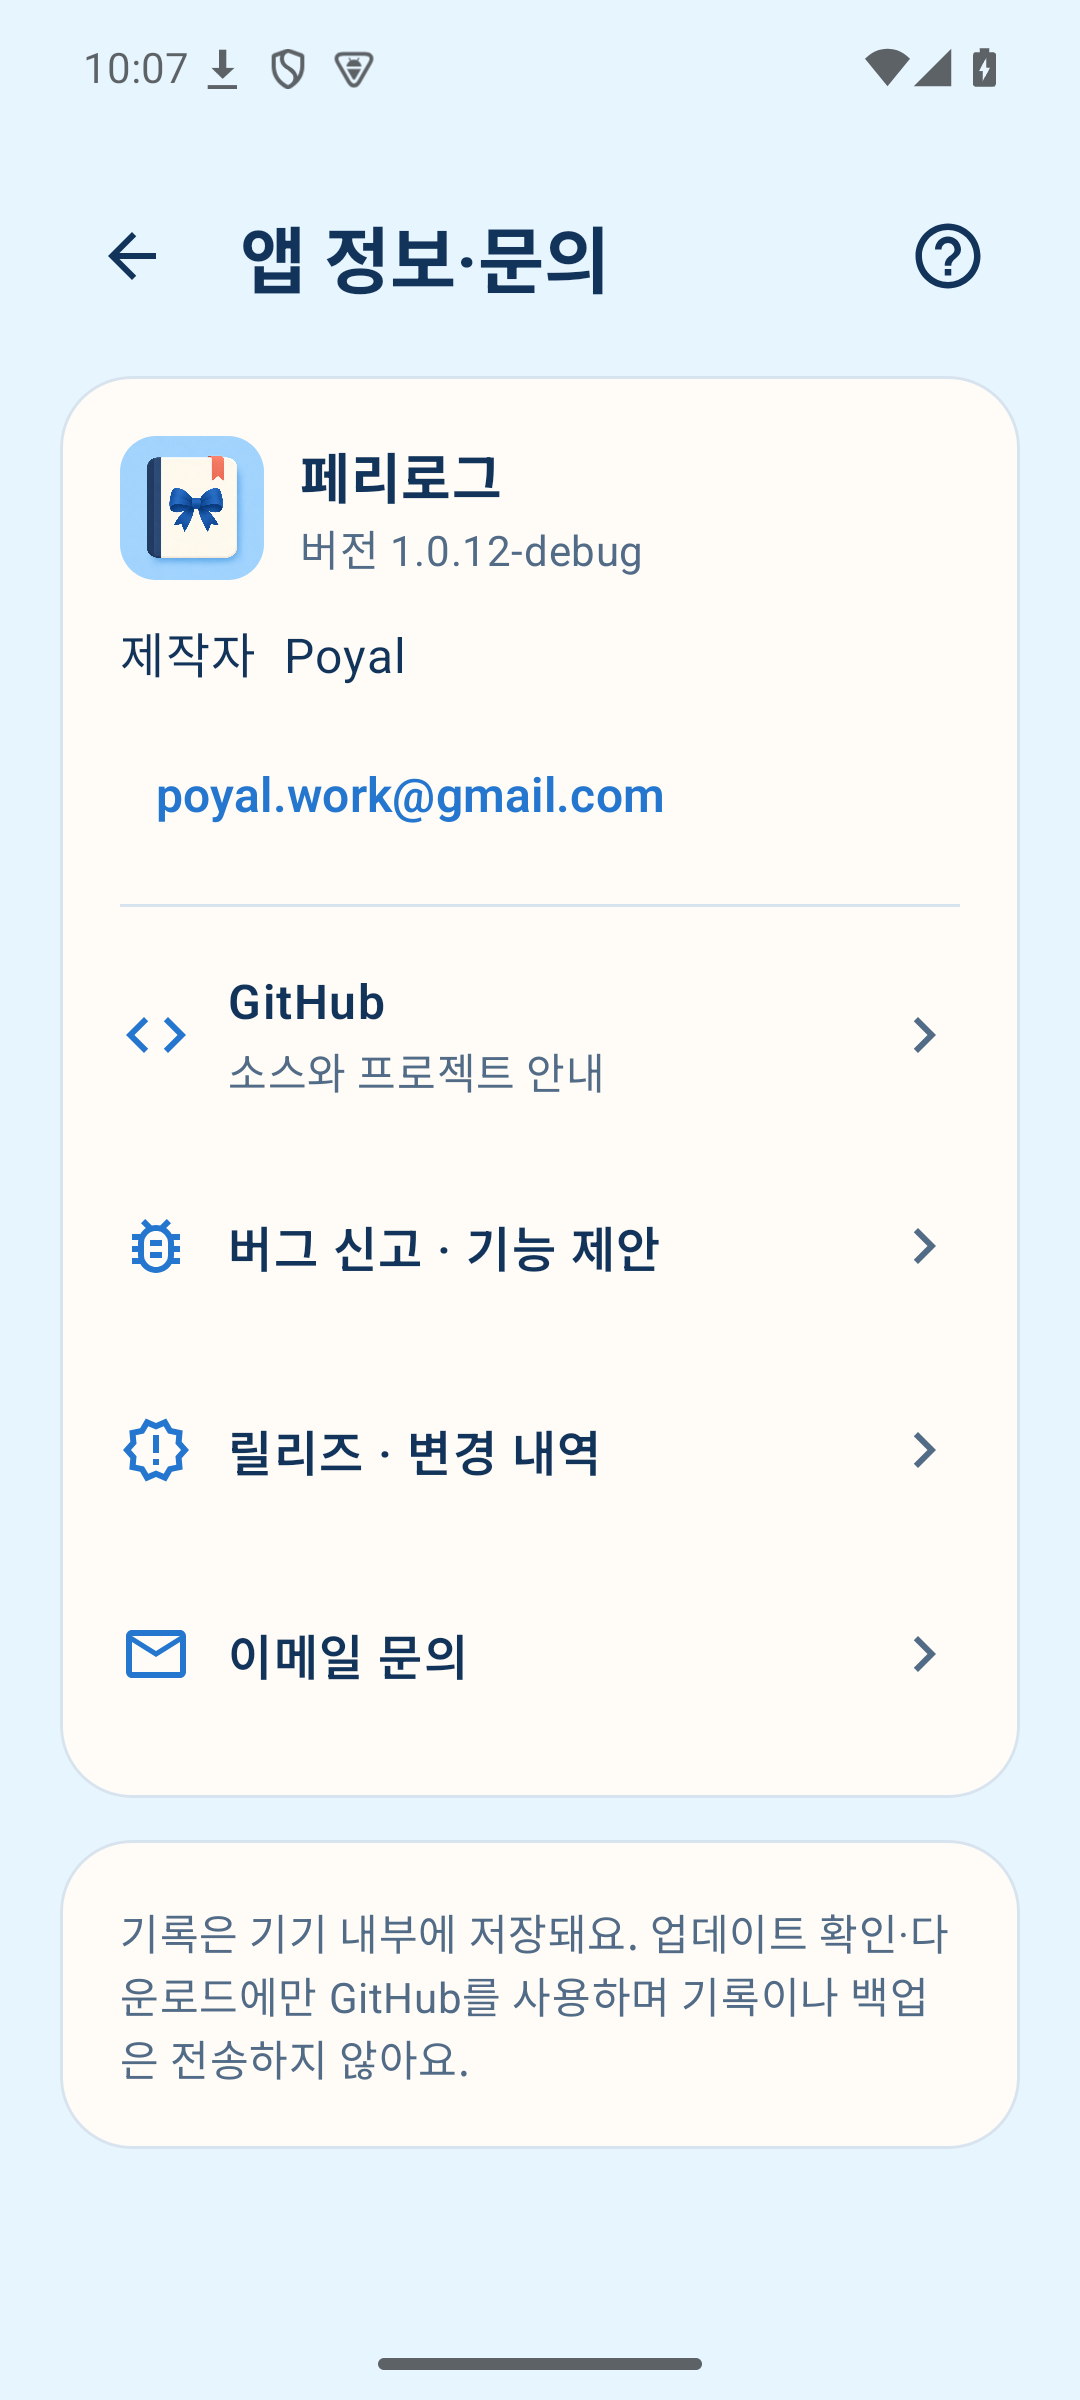
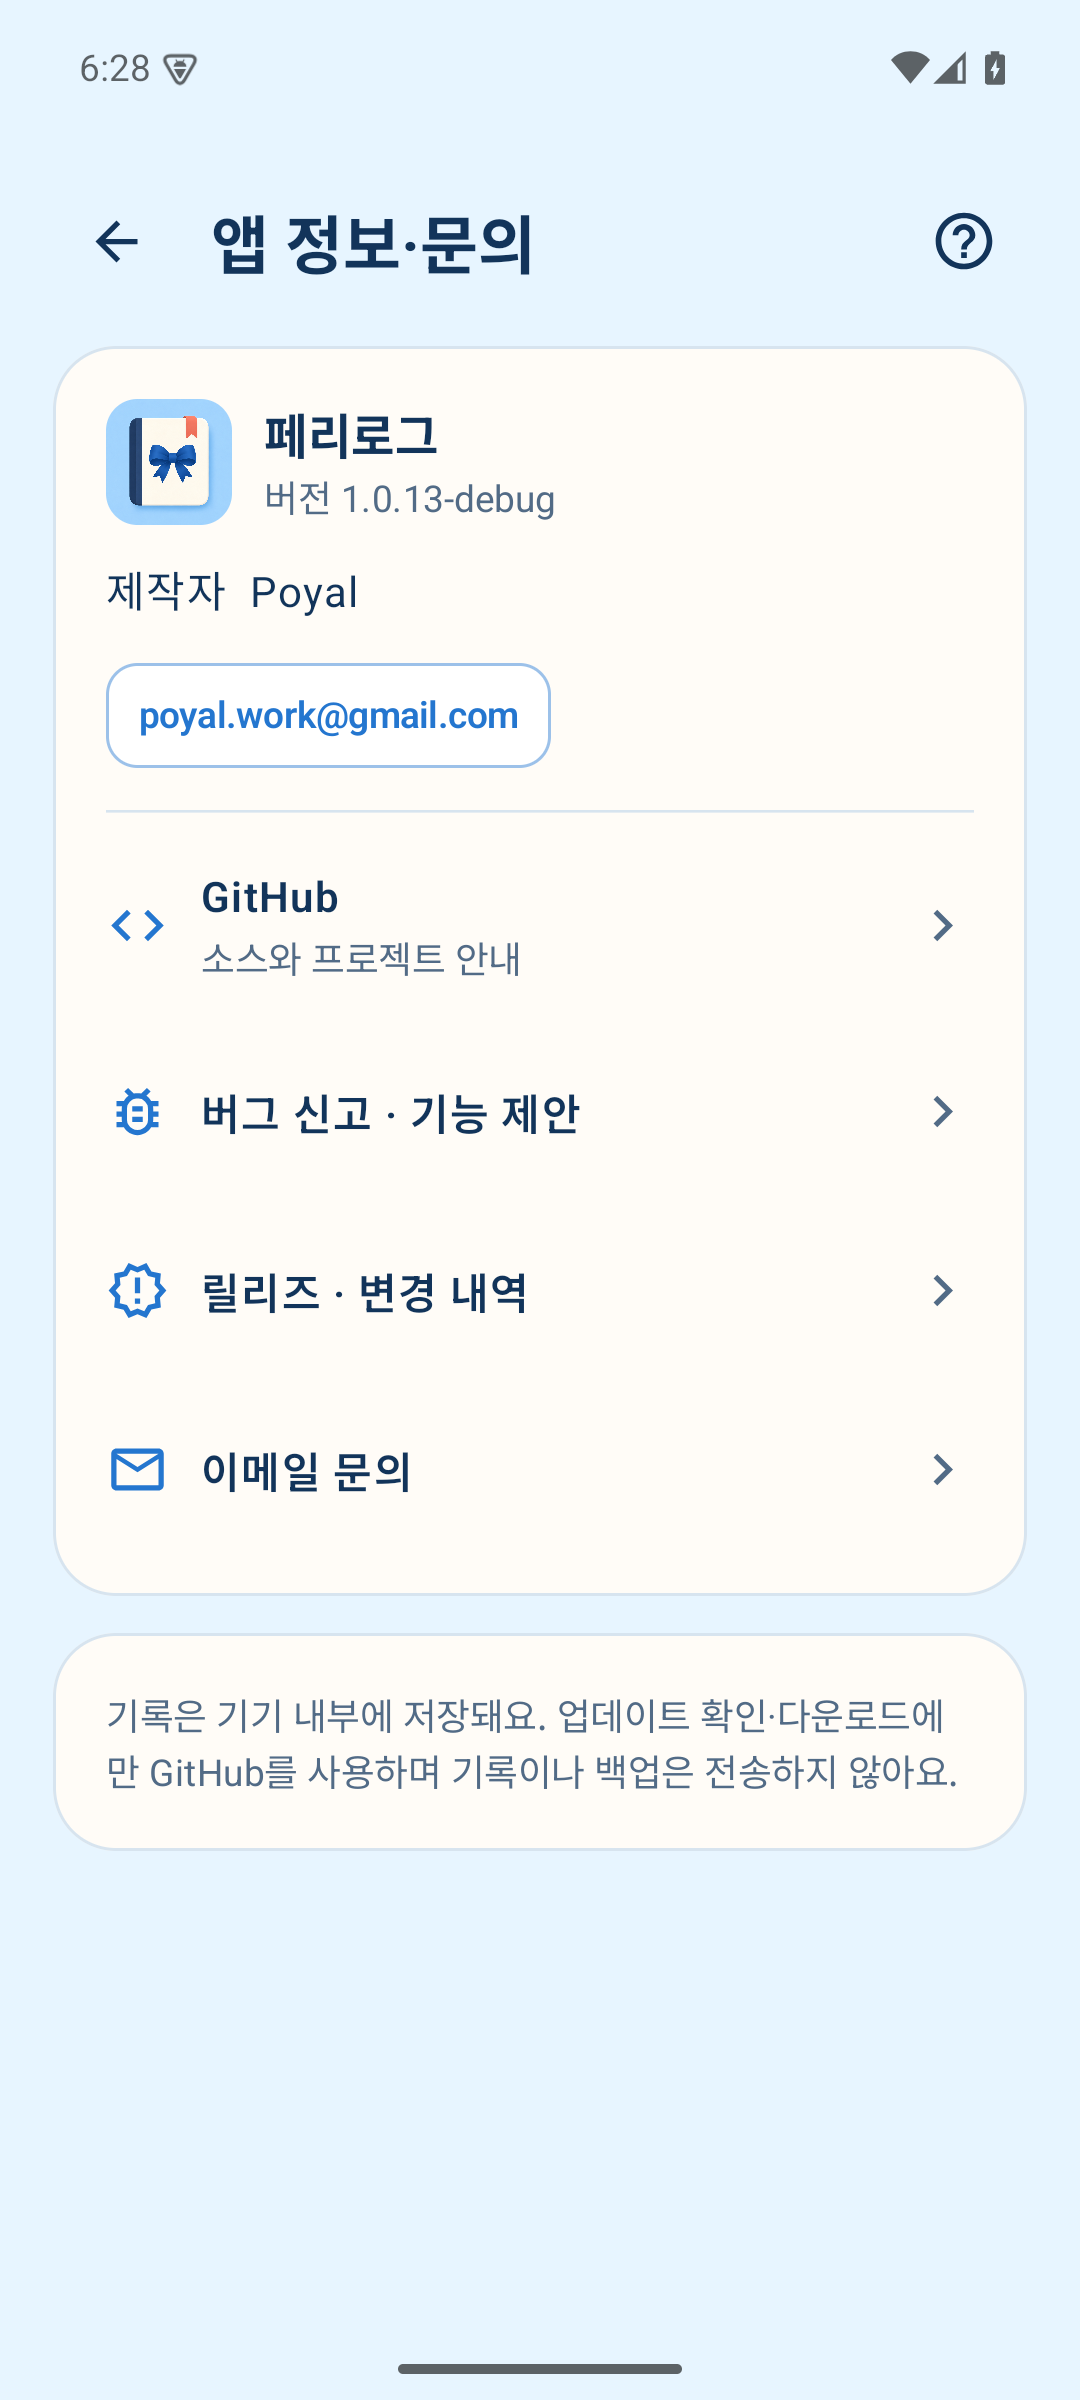
chore: prepare v1.0.13 release candidate

diff --git a/docs/capture/UpdateCapture.kt b/docs/capture/UpdateCapture.kt
@@ -29,7 +29,7 @@ import java.io.File
 class UpdateCapture {
     @get:Rule val ui = createAndroidComposeRule<ComponentActivity>()
     @Test fun availableVersionIgnoresPreviousDownload() {
-        val latest = ReleaseInfo("1.0.13", "fixture", "perilog-1.0.13.apk", 100, "a".repeat(64), "fixture")
+        val latest = ReleaseInfo("1.0.14", "fixture", "perilog-1.0.14.apk", 100, "a".repeat(64), "fixture")
         val previous = DownloadRecord(42, latest.copy(version = "1.0.10"), "perilog-1.0.10-old.apk")
         val persistence = object: UpdatePersistence {
             override suspend fun read() = UpdateRecord(latest, System.currentTimeMillis(), System.currentTimeMillis(), previous)
@@ -59,7 +59,7 @@ class UpdateCapture {
                     }
                 }
             } }
-            ui.onNodeWithText("1.0.13 APK 다운로드").assertIsDisplayed()
+            ui.onNodeWithText("1.0.14 APK 다운로드").assertIsDisplayed()
             ui.onNodeWithText("perilog-1.0.10-old.apk", substring = true).assertDoesNotExist()
             ui.waitForIdle(); SystemClock.sleep(650)
             val app = ApplicationProvider.getApplicationContext<PerilogApplication>()

diff --git a/docs/releases/v1.0.13.md b/docs/releases/v1.0.13.md
@@ -1,0 +1,25 @@
+# v1.0.13 변경 내용
+
+## 병원 일정 캘린더 연동
+
+**설정 → 캘린더 연동 → 휴대폰 캘린더 연결**에서 일정을 보낼 캘린더를 선택할 수 있습니다. 페리로그에서 병원 예약을 등록·수정·삭제하면 연결된 캘린더에도 반영합니다. 첫 연결은 오늘 이후 예약을 보내며, 다른 앱에서 만든 일정은 변경하지 않습니다.
+
+예약 메모는 기본으로 제외합니다. 복원한 예약은 기존 캘린더 일정을 확인한 후 다시 연결해 중복 전송을 방지해 주세요. 제목은 **병원 방문 · 신장내과 외 1개**처럼 짧게 표시하며 전체 진료·검사·치료 항목은 일정 설명에서 확인합니다.
+
+현재는 **페리로그 → 캘린더 단방향 반영**입니다. 캘린더에서 수정·삭제한 내용을 페리로그로 가져오지 않습니다. 구글 직접 연결은 배포 서명에 맞는 OAuth 설정과 실제 계정 인증 확인이 남아 있으므로, 이번 버전에서는 휴대폰 캘린더 연결을 이용해 주세요.
+
+## 버튼과 일정 화면 정리
+
+텍스트만 표시하던 동작을 배경·테두리가 있는 작은 버튼으로 바꾸고 크기·여백·간격을 통일했습니다. 공간이 부족하면 버튼이 다음 줄로 배치됩니다.
+
+홈에서 여는 일정 상세와 **설정 → 병원 일정**이 같은 예약 카드를 사용합니다. 카드 오른쪽 위 **⋮ 더보기**에서 수정·같은 구성으로 다음 예약·삭제를 선택합니다. 활력 상태는 **수정 아이콘**으로 입력을 펼치고 **저장 아이콘**으로 요약을 표시합니다. 입력값은 초안으로 보관되며 전체 기록은 화면 아래 **기록 저장**으로 저장합니다.
+
+캘린더 선택의 가운데 정렬과 연결 확인창의 구역·간격도 정리했습니다.
+
+## 업데이트 방법
+
+기존 앱을 삭제하지 않고 APK를 덮어 설치해 주세요. 업데이트 전에 **설정 → 데이터 내보내기·가져오기**에서 전체 데이터를 보관할 수 있습니다. DB 스키마는 8에서 9로 올라갑니다.
+
+## 검증
+
+이번 릴리즈 후보의 로컬 검증을 진행 중입니다. 실제 검사 결과와 공개 파일 확인은 [검증 기록](https://github.com/poyal/perilog/blob/main/docs/검증-기록.md)에 남깁니다.

diff --git a/docs/화면-안내.md b/docs/화면-안내.md
@@ -9,7 +9,7 @@
 
 2026-10-07 버튼 UI 통일 개발 빌드/API 35의 1080×2400px·420dpi·기본 글씨에서 병원 일정(39·71·75), 예상 재고(72·73), 입고 요청(48·49·50·74), 기록 표(23·44)를 갱신했습니다. 홈 상세와 일정 관리의 동일한 더보기 메뉴(88·89), 캘린더 선택·연동 확인(90·91)을 추가하고 연결 화면(76·77)을 갱신했습니다. 가상 자료만 사용했으며, 밝은 테마 촬영본을 아래에 싣습니다. 어두운 테마도 별도로 확인했습니다.
 
-2026-10-07 v1.0.12 준비 빌드/API 35의 360×800dp·기본 글씨에서 버전 표시(25·26·29)를 갱신했습니다. 29번은 실제 업데이트 UI에 다음 버전 1.0.13과 이전 APK 기록을 넣은 검사 응답 예시이며, 실제 공개 버전이나 다운로드 완료를 뜻하지 않습니다. 일반 설정(18), 앱 잠금·화면 보호(81), 상단 저장 안내(87)는 같은 날 잠금·보호 분리 개발 빌드에서 촬영했으며 릴리즈 후보와 화면이 같습니다. 모든 화면은 가상 자료로 촬영했습니다.
+2026-10-07 v1.0.13 준비 빌드/API 35의 1080×2400px·420dpi·기본 글씨에서 버전 표시(25·26·29)를 갱신했습니다. 29번은 실제 업데이트 UI에 다음 버전 1.0.14와 이전 APK 기록을 넣은 검사 응답 예시이며, 실제 공개 버전이나 다운로드 완료를 뜻하지 않습니다. 일반 설정(18), 앱 잠금·화면 보호(81), 상단 저장 안내(87)는 같은 날 잠금·보호 분리 개발 빌드에서 촬영했습니다. 모든 화면은 가상 자료로 촬영했습니다.
 
 v1.0.11 준비 빌드/API 35의 360×800dp·기본 글씨에서 설정 순서(18·80·84·85·86), 화면 테마(30), 앱 잠금(81), 버전 표시(25·26·29)를 갱신하고 상단 저장 안내(87)를 추가했습니다. 가상 자료와 검사 도구의 업데이트 대체 응답을 사용했습니다. 변경 없는 화면은 기존 촬영본을 유지합니다.
 
